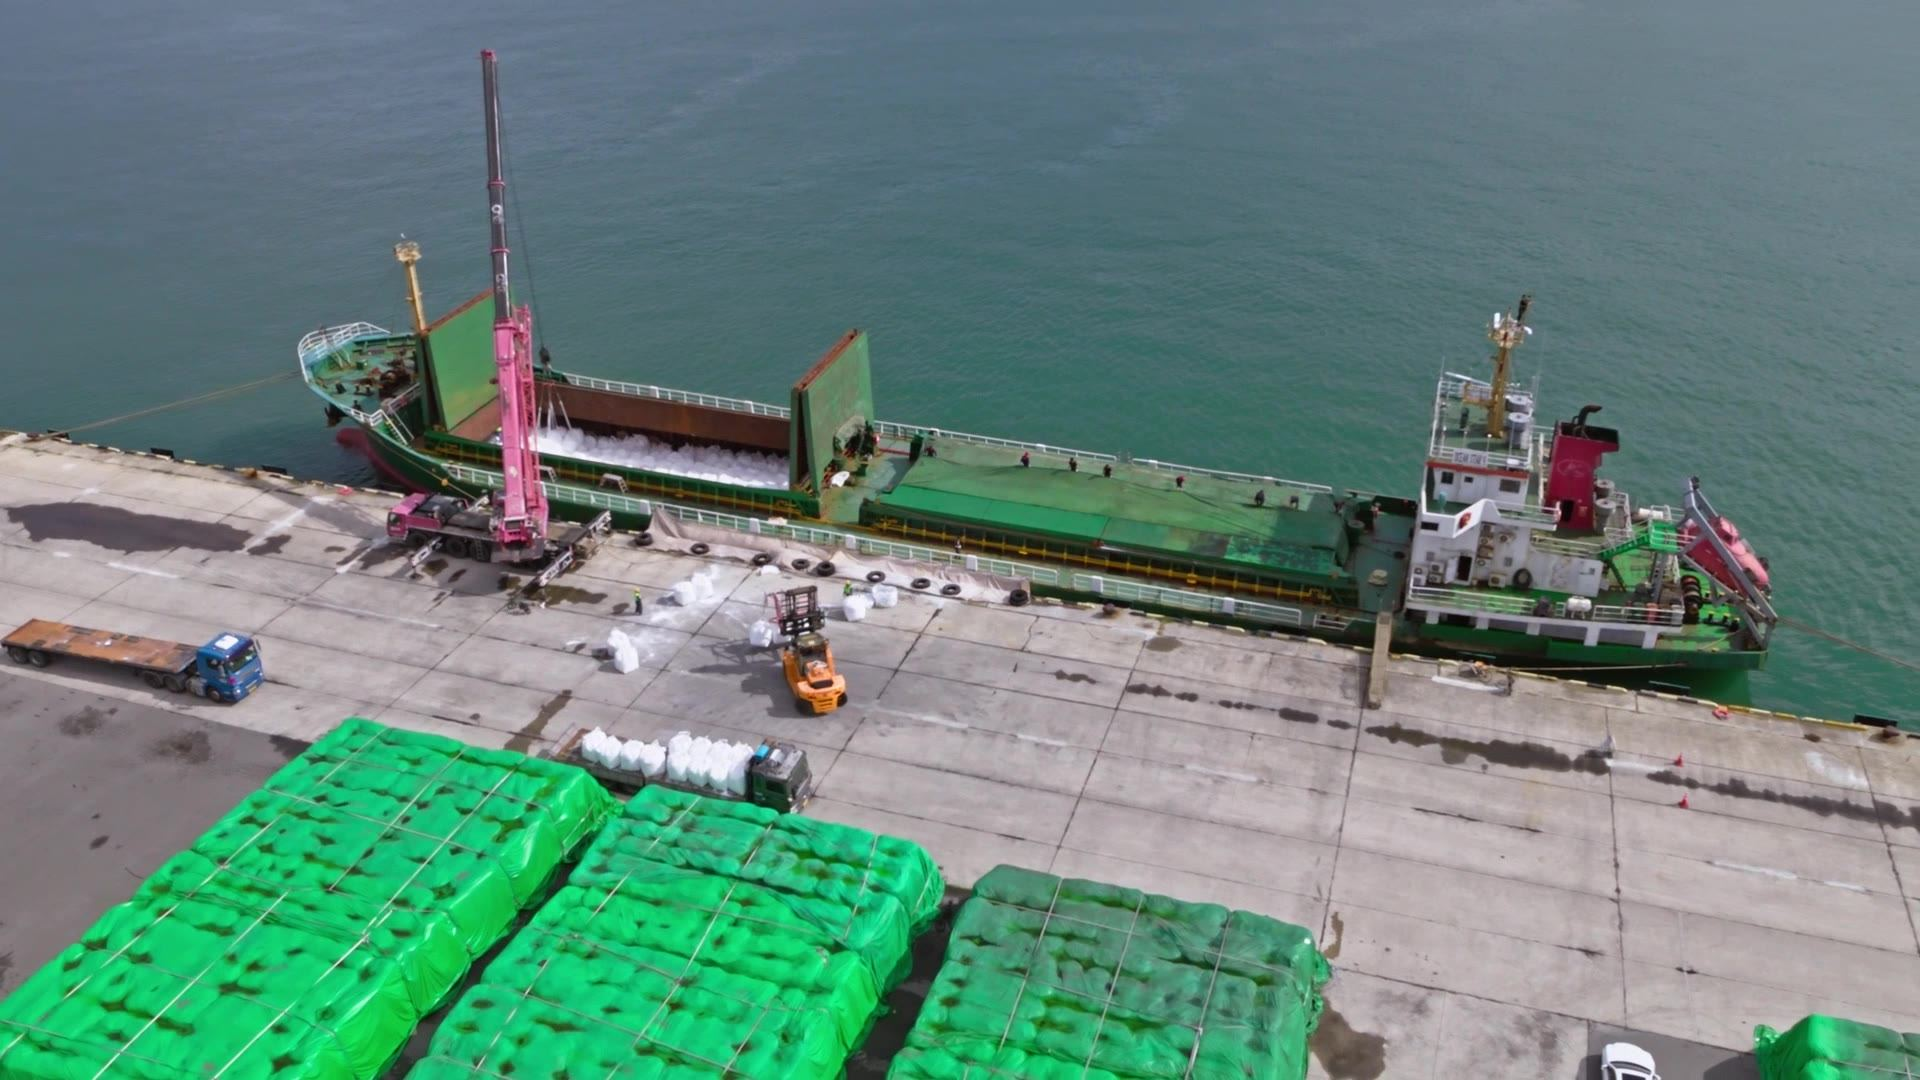
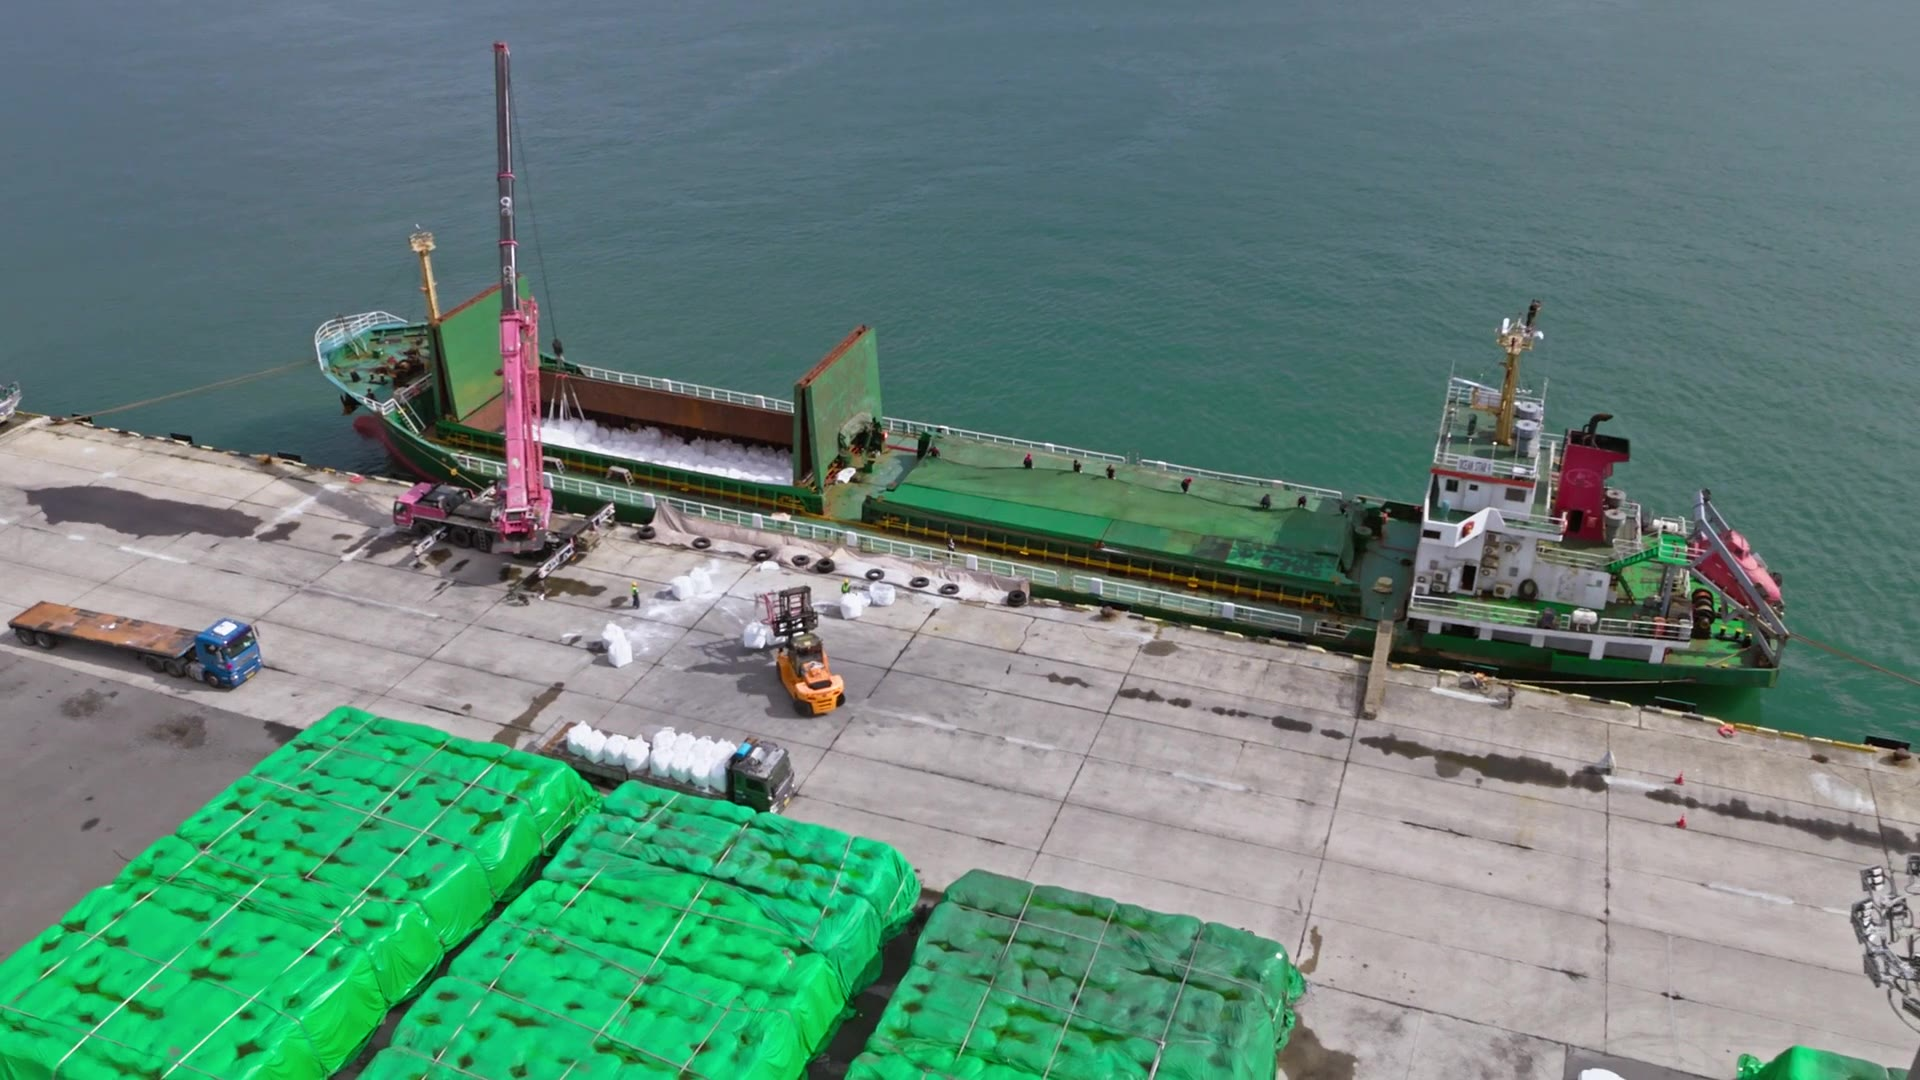
Add files via upload

Changed region(s): [[0.0, 0.0306, 1.0, 1.0], [0.4688, 0.6417, 0.5, 0.6722]]

diff --git a/index.html b/index.html
@@ -907,10 +907,10 @@ body.en .ko-only{display:none!important}
 <section class="page" id="p-home">
   <div class="hero" id="hero">
     <div class="hero-slides" aria-hidden="true">
-      <div class="slide is-active"><img src="assets/hero.jpg" alt="" width="1920" height="1438" fetchpriority="high" decoding="async"></div>
-      <div class="slide"><img src="assets/terminal.jpg" alt="" width="1920" height="1438" loading="lazy" decoding="async"></div>
+      <!-- v3.37 영상 첫 장면을 정지 이미지로 먼저 보여주고, 영상이 재생되면 그대로 이어짐(예전 사진 2장 슬라이드 삭제) -->
+      <div class="slide is-active"><picture><source media="(max-width: 600px)" srcset="assets/video/hero-poster-m.jpg"><img src="assets/video/hero-poster.jpg" alt="" width="1920" height="1080" fetchpriority="high" decoding="async"></picture></div>
       <!-- v3.31 메인 배경 영상 (2026.10 울산항 6·7·8부두 드론 촬영, 23초 반복). 동작 줄이기·데이터 절약 설정 시 재생 안 함 -->
-      <video class="hero-video" muted loop playsinline preload="none" poster="assets/video/hero-poster.jpg" width="1920" height="1080">
+      <video class="hero-video" muted loop playsinline preload="none" width="1920" height="1080">
         <source src="assets/video/hero-m.mp4" type="video/mp4" media="(max-width: 600px)">
         <source src="assets/video/hero-1080.mp4" type="video/mp4">
       </video>
@@ -931,8 +931,6 @@ body.en .ko-only{display:none!important}
     <div class="hero-foot">
       <div class="wrap">
         <div class="hero-dots" role="group" aria-label="메인 사진 전환" data-en-aria-label="Hero photos">
-          <button type="button" class="on" data-slide="0" aria-label="사진 1" data-en-aria-label="Photo 1"><i></i></button>
-          <button type="button" data-slide="1" aria-label="사진 2" data-en-aria-label="Photo 2"><i></i></button>
         </div>
         <div class="hero-cue" aria-hidden="true"><span>Scroll</span><i></i></div>
       </div>
@@ -2170,7 +2168,7 @@ body.en .ko-only{display:none!important}
       for(var j=0;j<dots.length;j++) dots[j].setAttribute('aria-pressed',String(j===cur));
     }
     function startHero(){
-      if (heroTimer || reduce || userPaused) return;
+      if (heroTimer || reduce || userPaused || slides.length < 2) return;
       heroTimer = setInterval(function(){
         if (document.hidden || document.getElementById('p-home').hidden) return;
         goSlide(cur + 1);
@@ -2846,6 +2844,9 @@ body.en .ko-only{display:none!important}
 .hero.has-video .hero-video{opacity:1}
 .hero-video{filter:brightness(1.12) contrast(1.05) saturate(1.08)}
 .hero.has-video .hero-dots button[data-slide]{display:none}
+/* v3.37 첫 화면 정지 이미지: 영상과 같은 구도·밝기, 확대 효과 없음. 영상이 없을 때(동작 줄이기·데이터 절약)는 정지 버튼 숨김 */
+.hero-slides .slide img,.hero-slides .slide.is-active img{animation:none;transform:none;object-position:50% 50%;filter:brightness(1.12) contrast(1.05) saturate(1.08)}
+.hero:not(.has-video) .hero-pause{display:none}
 .svc-media{margin:26px 0 0;max-width:720px}
 .svc-media video,.svc-media img{display:block;width:100%;height:auto;aspect-ratio:16/9;object-fit:cover;border-radius:6px;background:var(--bg-3)}
 .svc-media figcaption{margin-top:10px;font-size:0.8125rem;color:var(--ink-4)}
@@ -2859,6 +2860,7 @@ body.en .ko-only{display:none!important}
   var hero = document.getElementById('hero'), hv = hero && hero.querySelector('.hero-video');
   if (hv && !reduce && !save){
     hv.preload = 'auto';
+    hv.addEventListener('loadedmetadata', function once(){ hv.removeEventListener('loadedmetadata', once); try { if (hv.currentTime < 0.7) hv.currentTime = 0.7; } catch(e){} });
     hv.addEventListener('playing', function(){ hero.classList.add('has-video'); var pb = hero.querySelector('.hero-pause'); if (pb){ pb.setAttribute('aria-label', document.body.classList.contains('en') ? 'Pause background video' : '배경 영상 정지'); } });
     var p = hv.play(); if (p && p.catch) p.catch(function(){});
     hero.addEventListener('click', function(e){

diff --git a/README.md b/README.md
@@ -1,9 +1,18 @@
-# 세방울산부두운영 홈페이지 v3.36 (www.supt.co.kr, 전체 패키지)
+# 세방울산부두운영 홈페이지 v3.37 (www.supt.co.kr, 전체 패키지)
 
 기준: 2026-09-27 시안(claude.ai 아티팩트 v63)과 동일한 내용입니다. 사진·로고·폰트(assets)까지 모두 들어 있어 이 폴더만으로 완성 화면이 나옵니다.
 v3.26부터 검색엔진 수집을 허용합니다(정식 도메인 연결 전제).
 
 
+
+## v3.37 (v3.36 대비) 첫 화면 예전 사진 제거
+
+- 영상이 로딩되는 동안 예전 사진 2장(hero.jpg, terminal.jpg) 슬라이드가 잠깐 보이던 문제 수정
+- 대신 영상 첫 장면과 같은 정지 이미지를 먼저 보여주고, 영상이 재생되면 같은 장면에서 그대로 이어짐(PC hero-poster.jpg, 휴대폰 hero-poster-m.jpg)
+- 사진 전환 표시(막대 2개) 삭제, 영상이 재생되지 않는 환경에서는 정지 버튼 숨김
+- sitemap.xml 수정일 2026-11-01
+- 바뀐 파일: index.html, sitemap.xml, assets/video/hero-poster.jpg, assets/video/hero-poster-m.jpg(새 파일)
+- assets/hero.jpg는 더 이상 쓰지 않음(깃허브에서 삭제해도 됨)
 
 ## v3.36 (v3.35 대비) 언론보도 교체
 
